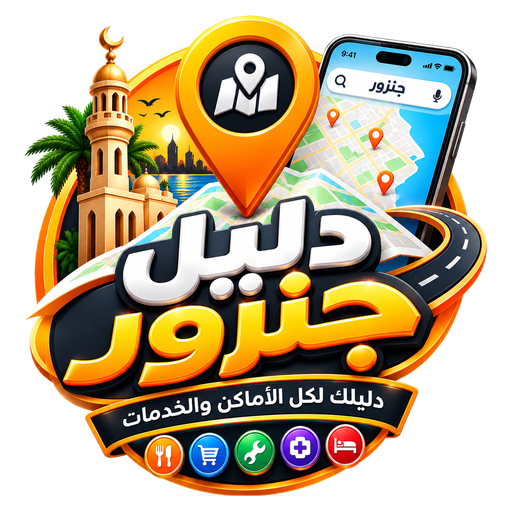
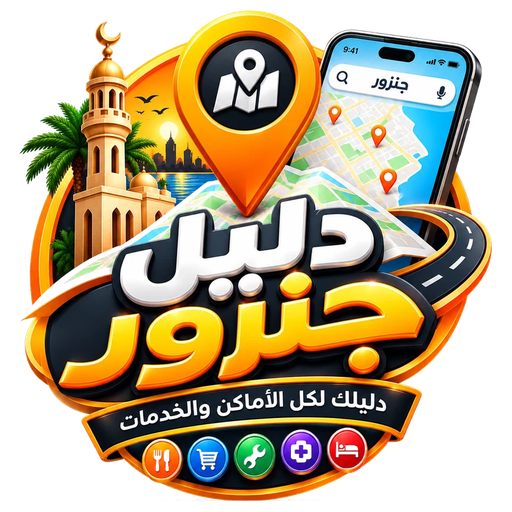
أيقونة التطبيق شفافة بلا خلفية (الشعار الجديد) + نسخة v=6 لكسر الكاش
- icon-192/512 و app-icon و favicon شفافة تمامًا
- apple-touch-icon بخلفية بيضاء (iOS يحوّل الشفاف إلى أسود)
- maskable بخلفية بيضاء كريمية بدل البرتقالي

diff --git a/src/components/app-info-modal.tsx b/src/components/app-info-modal.tsx
@@ -34,7 +34,7 @@ export default function AppInfoModal({ siteName, logoUrl, memberCount, onClose, 
         <div className="app-info-hero">
           <span className="app-info-logo">
             {/* eslint-disable-next-line @next/next/no-img-element -- Admin-configurable logo */}
-            <img src={logoUrl || "/app-icon.png"} alt={siteName} width={92} height={92}/>
+            <img src={logoUrl || "/app-icon.png?v=6"} alt={siteName} width={92} height={92}/>
           </span>
           <h3>{siteName}</h3>
           <p>دليل رقمي مجاني يجمع كل مهنيي وخدمات ومحلات قرية جنزور في مكان واحد.. من أهل القرية لأهل القرية.</p>

diff --git a/src/components/install-app-modal.tsx b/src/components/install-app-modal.tsx
@@ -162,7 +162,7 @@ export default function InstallAppModal() {
         <div className="install-modal-head">
           <span className="install-modal-logo">
             {/* eslint-disable-next-line @next/next/no-img-element -- Static app icon */}
-            <img src="/app-icon.png" alt="" width={64} height={64}/>
+            <img src="/app-icon.png?v=6" alt="" width={64} height={64}/>
           </span>
           <h2 id="install-modal-title">ثبّت تطبيق دليل جنزور</h2>
           <p>كل مهنيي وخدمات ومحلات القرية في جيبك.. بدون متجر تطبيقات وبدون مساحة تُذكر، ويعمل على كل الموبايلات.</p>

diff --git a/src/components/ad-template-art.tsx b/src/components/ad-template-art.tsx
@@ -42,7 +42,7 @@ export default function AdTemplateArt({ template, title = "", caption = "", site
   const heading = title.trim() || meta.title || siteName;
   const line = caption.trim() || meta.caption;
   const cheapest = pricing?.enabled ? cheapestAdTier(pricing) : null;
-  const logo = logoUrl || "/app-icon.png";
+  const logo = logoUrl || "/app-icon.png?v=6";
   const autoKind = meta.auto ? "ad-art-auto" : "";
   const cls = `ad-art ad-art-${template} ${autoKind} ${compact ? "is-compact" : ""} ${animated ? "is-animated" : ""} ${backgroundUrl ? "has-bg" : ""}`;
   const bgStyle = backgroundUrl ? ({ "--ad-bg": `url("${backgroundUrl}")` } as CSSProperties) : undefined;

diff --git a/src/app/layout.tsx b/src/app/layout.tsx
@@ -41,8 +41,8 @@ export const metadata: Metadata = {
   manifest: "/manifest.webmanifest",
   appleWebApp: { capable: true, title: "دليل جنزور", statusBarStyle: "default" },
   icons: {
-    icon: [{ url: "/favicon.png?v=5", type: "image/png", sizes: "48x48" }, { url: "/icon-192.png?v=5", type: "image/png", sizes: "192x192" }],
-    apple: [{ url: "/apple-touch-icon.png?v=5", type: "image/png", sizes: "180x180" }],
+    icon: [{ url: "/favicon.png?v=6", type: "image/png", sizes: "48x48" }, { url: "/icon-192.png?v=6", type: "image/png", sizes: "192x192" }],
+    apple: [{ url: "/apple-touch-icon.png?v=6", type: "image/png", sizes: "180x180" }],
   },
 };
 
